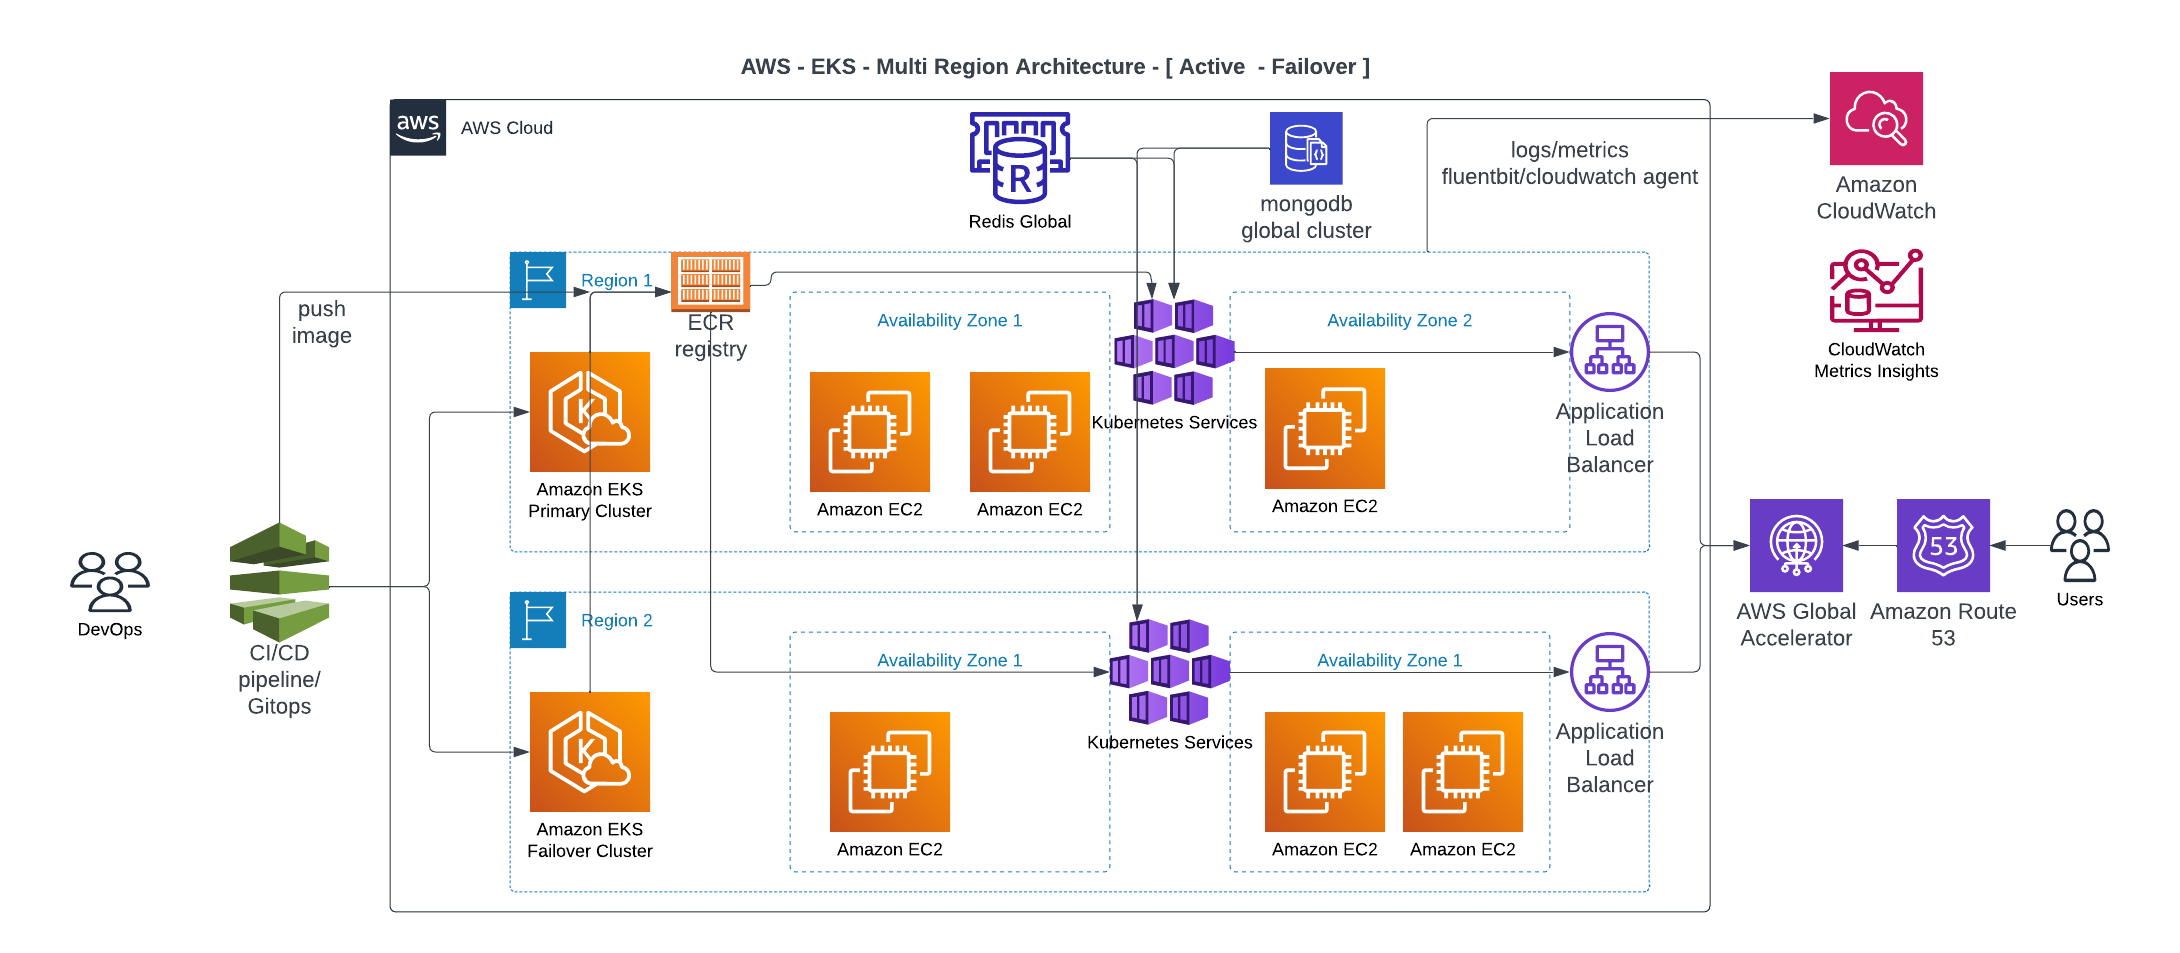
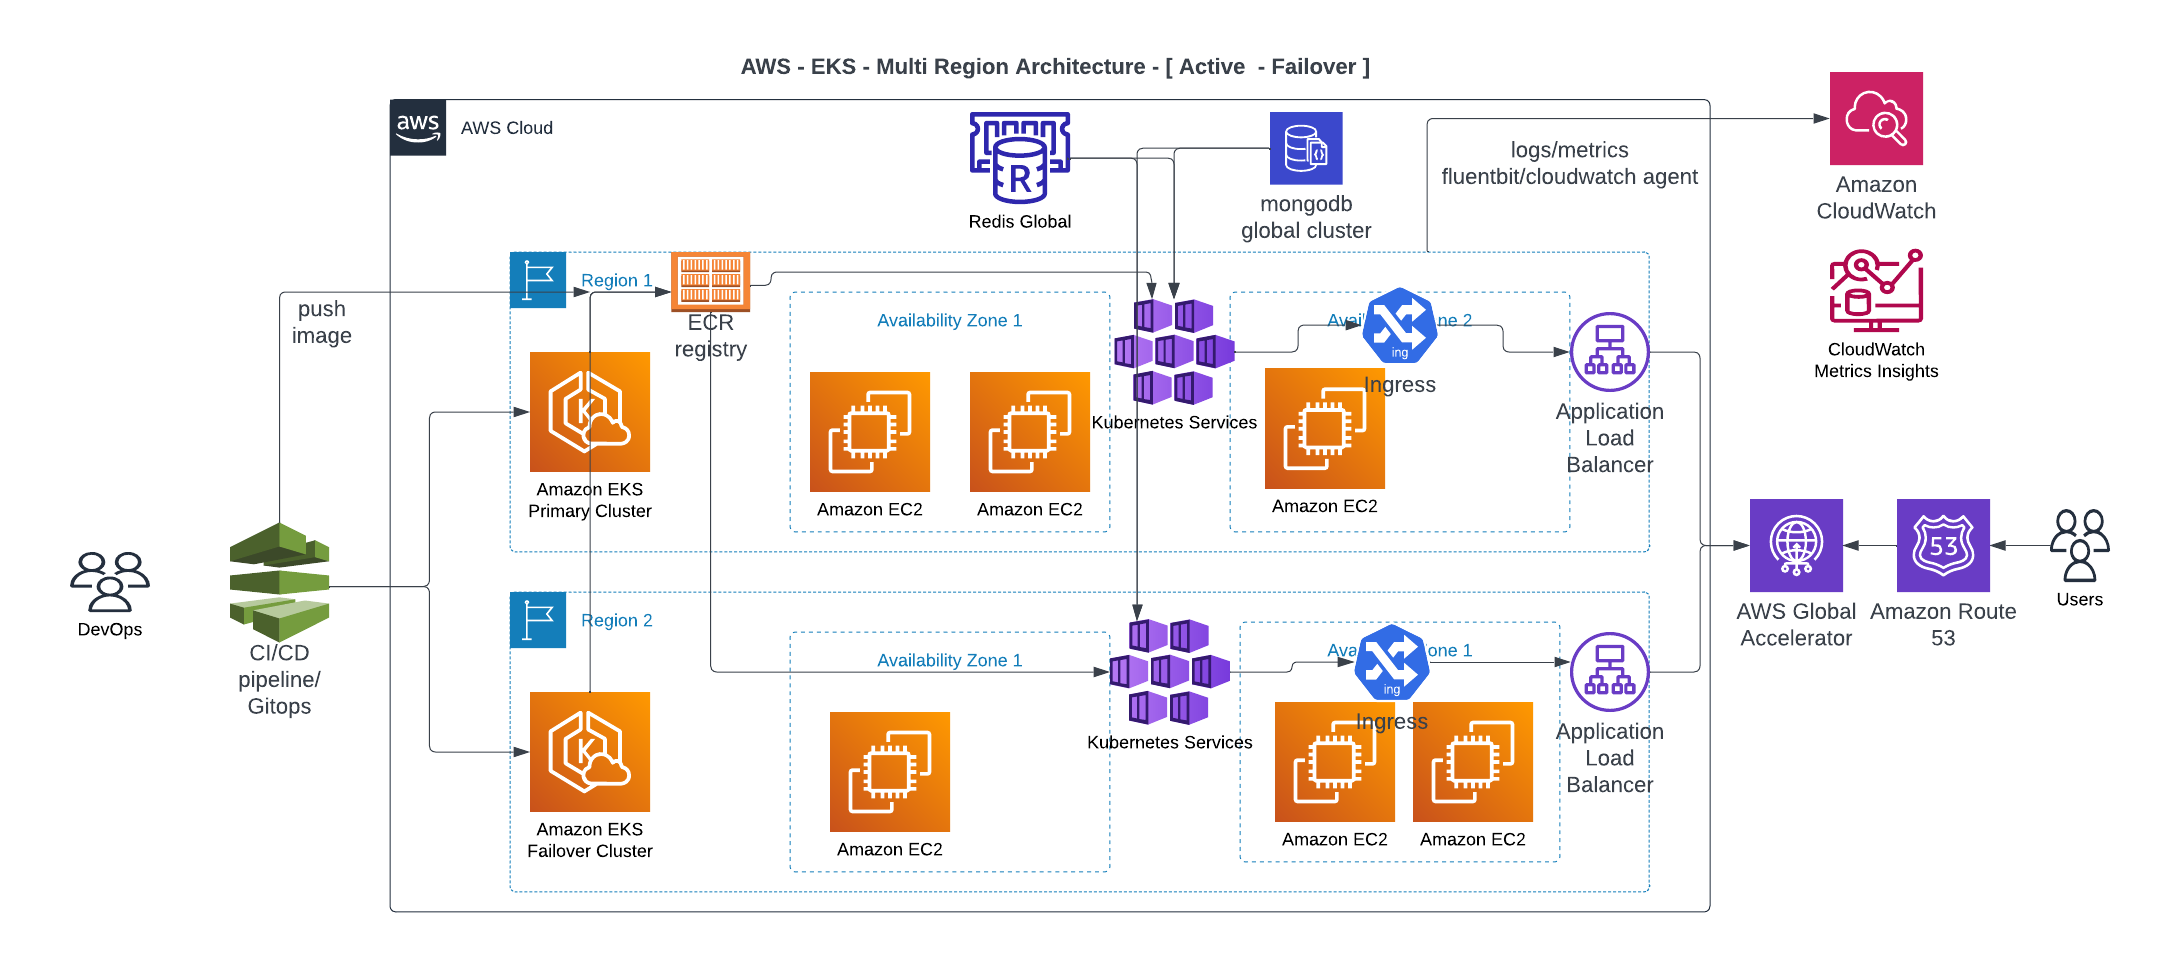
Updated architecture

Changed region(s): [[0.5615, 0.639, 0.7174, 0.9129], [0.5927, 0.3043, 0.6862, 0.426]]

diff --git a/readme.md b/readme.md
@@ -14,15 +14,25 @@
 - Dockerize all the applications and test them by running them as containers
 - If possible test everything with docker-compose locally
 - Create images for all the applications and push them to the container registry(ECR)
-- Create k8s manifest files for all the resoures/Helm package and test it in DEV k8s cluster/local Minikube cluster
+- Create k8s manifest files for all the resources/Helm package and test it in DEV k8s cluster/local Minikube cluster
 - Create Kubernetes manifest files/ Helm chart for each service ( Deployment, service, config map, secrets, ingress, etc)
 - For Redis and MongoDB, let's go for managed services, which is the best option.
+- Plan for network configuration to share data between applications running on two k8s clusters
+
+### Challenges
+
+- Choosing a multi-region K8s cluster. Replication approach, or run a single K8s cluster and spread workload across multiple regions.
+- Managed Kubernetes [EKS] works at the region level. So we will go with the replication approach
+- We need a global load balancer to direct traffic between services deployed on two different EKS clusters. AWS global accelerator is the best option here.
+- We need to go for global data store option for both MongoDB and Redis
+- Need to connect and configure networking settings to share data between applications running on two different cluster
+- Deploy applications with the same configuration with two different K8s clusters. Gitops is the best option(ArgoCD)
 
 ### Create and manage k8s cluster across multiple regions
 
 - Create two EKS clusters in two different regions, one as a primary cluster and the other as a failover cluster.
-- Choose replication approach. Idea is to run exact copy of all the services in failover cluster.
-- For logging/monitoring/alerting we can use cloud-specific services (cloud watch, container insights, cloud watch alerts, etc) as we are running k8s cluster in the same cloud
+- Choose a replication approach. The idea is to run an exact copy of all the services in the failover cluster.
+- For logging/monitoring/alerting we can use cloud-specific services (cloud watch, container insights, cloud watch alerts, etc) as we are running a k8s cluster in the same cloud
 
 #### Architeture Diagram
 
@@ -30,24 +40,24 @@
 
 #### Services
 
-- EKS cluster - spin 2 eks cluster in 2 different regions
+- EKS cluster - spin two EKS clusters in two different regions
 - ECR - To store docker images
 - EC2 - Kubernetes worker nodes
 - ALB - Load balancer provisioned by ingress controller to direct traffic to correct services
 - AWS Load Balancer Controller - Ingress controller for EKS cluster
-- IAM, Roles, User, K8s RBAC, service accounts for accessing EKS cluster
-- AWS cloudwatch, Fluentbit, Cloudwatch agent, Container Insights, SNS for logging, Monitoring and alerting
-- Gitops- To deploy microservices into kubernetes cluster
-- Amazon ElastiCache for Redis - Global Datastore - Cross region redis cluster
-- Amazon DocumentDB Global Clusters - Cross region mongodb cluster
-- Gitops - Argocd or Flux to deploy kubernetes resources to EKS cluster by CI server(jenkins, AWS Code pipeline)
+- IAM, Roles, User, K8s RBAC, service accounts for accessing the EKS cluster
+- AWS cloud watch, Fluentbit, Cloudwatch agent, Container Insights, SNS for logging, Monitoring, and alerting
+- Gitops- To deploy microservices into the Kubernetes cluster
+- Amazon ElastiCache for Redis - Global Datastore - Cross region Redis cluster
+- Amazon DocumentDB Global Clusters - Cross region Mongodb cluster
+- Gitops - Argocd or Flux to deploy Kubernetes resources to EKS cluster by CI server(Jenkins, AWS Code pipeline)
 - AWS global accelerator - Networking service to route traffic to applications deployed in 2 different regions
 
 ### Create and manage k8s cluster across multiple cloud providers
 
-- Create two EKS clusters in two different cloud providers, one as a primary cluster and the other as a failover cluster.
-- Choose replication approach. Idea is to run exact copy of all the services in failover cluster.
-- For logging/monitoring/alerting we can use these services (Prometheus, Elasticsearch, Grafana etc) as we are running k8s cluster in different cloud providers
+- Create two K8s clusters in two different cloud providers, one as a primary cluster and the other as a failover cluster.
+- Choose the replication approach. The idea is to run an exact copy of all the services in the failover cluster.
+- For logging/monitoring/alerting we can use these services (Prometheus, Elasticsearch, Grafana, etc) as we are running k8s cluster in different cloud providers
 
 #### Architeture Diagram
 
@@ -55,16 +65,16 @@
 
 #### Services
 
-- EKS and AKS cluster - spin eks cluster in AWS cloud and AKS cluster in Azure
+- EKS and AKS cluster - spin EKS cluster in AWS cloud and AKS cluster in Azure
 - ECR/ACR - To store docker images
 - EC2 and Azure VMs - Kubernetes worker nodes
 - ALB/ - Load balancer provisioned by ingress controller to direct traffic to correct services
 - AWS Load Balancer Controller - Ingress controller for EKS cluster
-- Nginx Ingress contoller for AKS
+- Nginx Ingress controller for AKS
 - IAM, Roles, User, K8s RBAC, service accounts for accessing EKS/AKS cluster
-- Prometheus, Elasticsearch, Grafana for logging, Monitoring and alerting
-- Gitops- To deploy microservices into kubernetes cluster
-- Amazon ElastiCache for Redis - Global Datastore - Cross region redis cluster
-- Amazon DocumentDB Global Clusters - Cross region mongodb cluster
-- Gitops - Argocd or Flux to deploy kubernetes resources to EKS and AKS cluster by CI server(jenkins, AWS Code pipeline)
+- Prometheus, Elasticsearch, and Grafana for logging, Monitoring, and alerting
+- Gitops- To deploy microservices into the Kubernetes cluster
+- Amazon ElastiCache for Redis - Global Datastore - Cross region Redis cluster
+- Amazon DocumentDB Global Clusters - Cross region Mongodb cluster
+- Gitops - Argocd or Flux to deploy Kubernetes resources to EKS and AKS cluster by CI server(Jenkins, AWS Code pipeline)
 - Global Load balancer - To route traffic between applications deployed on 2 different cloud providers
